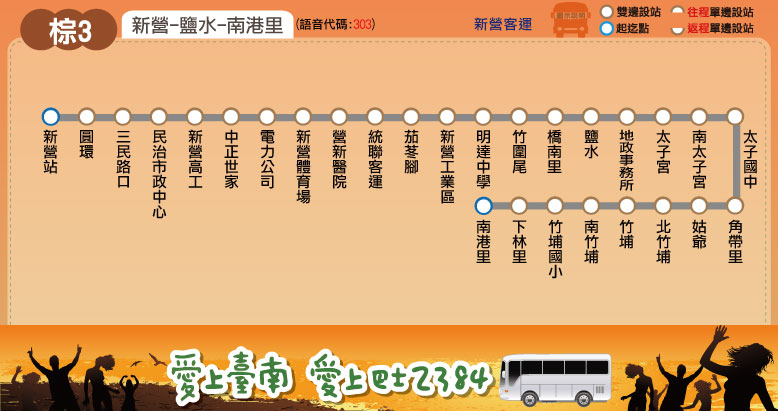
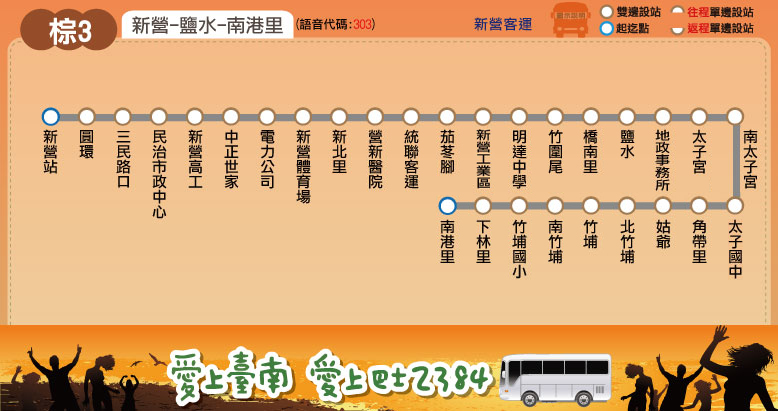
finished the time schedule of brown 3 & 3-1

Changed region(s): [[0.401, 0.292, 0.9563, 0.6715], [0.9563, 0.3212, 0.9871, 0.4672]]

diff --git a/route/fare_and_time/brown_3.js b/route/fare_and_time/brown_3.js
@@ -1,42 +1,30 @@
-brown_3_interval_name = ["新營","茄苳腳","鹽水","後寮","番子寮","孫厝寮","羊稠厝","頂洲","北紅茄萣","新渡子頭","渡子頭","南鯤鯓","雙春"];
+brown_3_interval_name = ["新營","茄苳腳","鹽水","太子宮","角帶里","姑爺","竹埔","南港里"];
 brown_3_interval_stop = [
-["新營站","圓環","三民路口","齊普","新營漁市場","太子路口","統聯客運"], // 新營
+["新營站","圓環","三民路口","民治市政中心","新營高工","中正世家","電力公司","新營體育場","新北里","營新醫院","統聯客運"], // 新營
 ["茄苳腳","新營工業區","明達中學"], // 茄苳腳
-["竹圍尾","橋南里","鹽水","地政事務所","月津國小"], // 鹽水
-["後寮"], // 後寮
-["番子寮"], // 番子寮
-["孫厝寮","南孫厝寮"], // 孫厝寮
-["羊稠厝","頑皮世界"], // 羊稠厝
-["頂洲"], // 頂洲
-["北紅茄萣"], // 北紅茄萣
-["新渡子頭"], // 新渡子頭
-["渡子頭"], // 渡子頭
-["南鯤鯓","橋北"], // 南鯤鯓
-["永春","雙春"] // 雙春
+["竹圍尾","橋南里","鹽水","地政事務所"], // 鹽水
+["太子宮","南太子宮","太子國中"], // 太子宮
+["角帶里"], // 角帶里
+["姑爺"], // 姑爺
+["北竹埔","竹埔","南竹埔","竹埔國小"], // 竹埔
+["下林里","南港里"] // 南港里
 ];
-brown_3_stop_time_consume = [0,1,3,5,7,8,10,11,13,15,16,18,20,22,24,26,27,29,31,32,33,34,35,36,37,36,37,38,40,43,45,46,47,49,50,
-52,53,54,55,56,57,58,60]; // fake time
-brown_3_fare = [ // fake fare
+brown_3_stop_time_consume = [0,2,4,6,8,9,9,10,11,11,12,15,16,17,19,20,22,23,28,30,31,32,34,36,37,37,38,39,40];
+brown_3_fare = [
 [26],
 [26,26],
-[26,26,26],
-[33,26,26,26],
-[39,26,26,26,26],
-[46,31,26,26,26,26],
-[50,34,26,26,26,26,26],
-[52,36,27,26,26,26,26,26],
-[55,39,30,26,26,26,26,26,26],
-[59,43,34,26,26,26,26,26,26,26],
-[73,57,48,41,34,27,26,26,26,26,26],
-[82,67,57,50,43,36,33,30,27,26,26,26],
-[89,73,64,57,50,43,39,37,34,31,26,26,26],
-[100,84,75,68,61,54,50,48,45,42,27,26,26,26]
+[34,26,26],
+[48,26,26,26],
+[54,29,26,26,26],
+[57,32,26,26,26,26],
+[63,38,29,26,26,26,26],
+[69,44,34,26,26,26,26,26]
 ];
 // format = [time at the start stop] or
 // [time, other] or
 // [time, start_stop, end_stop, other]
-brown_3_main_stop_name = ["新營","統聯<br />客運","鹽水","頑皮世界","南鯤鯓","雙春"];
-brown_3_main_stop_time_consume = [0, 8, 18, 35, 51, 55];
-brown_3_important_stop = [0, 2, 4, 5]; // 新營, 鹽水, 南鯤鯓, 雙春
-brown_3_time_go = [["9:45"],["13:25"],["17:40"]];
-brown_3_time_return = [["6:00"],["10:40"],["14:20"]];
+brown_3_main_stop_name = ["新營","統聯<br />客運","鹽水","太子宮","竹埔","南港里"];
+brown_3_main_stop_time_consume = [0, 12, 22, 29, 37, 40];
+brown_3_important_stop = [0, 2, 5]; // 新營, 鹽水, 南港里
+brown_3_time_go = [["06:00"],["12:15"],["17:15"]];
+brown_3_time_return = [["06:45"],["13:00"],["18:00"]];

diff --git a/brown/brown_3_1.html b/brown/brown_3_1.html
@@ -52,7 +52,7 @@ select.get_fare option.option5
 			<h2>大台南公車 ─ 棕3-1 路線圖</h2>
 			<span class="byline">Tainan Bus Brown 3-1, Route Map</span>
 		</div>
-		<img src="../route/brown/br3.jpg">
+		<img src="../route/brown/br3_1.jpg">
 		<p></p>
 		<!--<iframe src="https://mapsengine.google.com/map/embed?mid=zT0XIOZRtlhg.kjdt4phnE_dw" width="800" height="500"></iframe>-->
 	</div>
@@ -67,7 +67,7 @@ select.get_fare option.option5
 			<table border="0">
 				<tr>
 					<td>起訖點</td>
-					<td>新營 － 鹽水 － 南鯤鯓 － 雙春</td>
+					<td>新營 － 鹽水 － 鐵線里</td>
 				</tr>
 				<tr>
 					<td>營運公司</td>
@@ -75,7 +75,12 @@ select.get_fare option.option5
 				</tr>
 				<tr>
 					<td>首／末班車發車時刻</td>
-					<td>往 雙春：09:45／17:40<br />往 新營：06:00／14:20</td>
+					<td><script language="javascript">
+					document.write('往 鐵線里：'+brown_3_1_time_go[0]+'／'+brown_3_1_time_go[brown_3_1_time_go.length-1]);
+					document.write('<br />');
+					document.write('往 新　營：'+brown_3_1_time_return[0]+'／'+brown_3_1_time_return[brown_3_1_time_return.length-1]);
+					</script>
+					</td>
 				</tr>
 				<tr>
 					<td>班距</td>
@@ -133,10 +138,10 @@ select.get_fare option.option5
 		<span class="byline">Bus schedule</span> </div>
 	<div class="content">
 		<script language="javascript">
-			document.write('<h2><font color="brown">新營-&gt;雙春</font></h2>');
+			document.write('<h2><font color="brown">新營-&gt;鐵線里</font></h2>');
 			create_time_schedule(brown_3_1_main_stop_name, brown_3_1_main_stop_time_consume, brown_3_1_important_stop, brown_3_1_time_go, false);
 			document.write('<p>　</p>');
-			document.write('<h2><font color="brown">雙春-&gt;新營</font></h2>');
+			document.write('<h2><font color="brown">鐵線里-&gt;新營</font></h2>');
 			create_time_schedule(brown_3_1_main_stop_name, brown_3_1_main_stop_time_consume, brown_3_1_important_stop, brown_3_1_time_return, true);
 			document.write(TimeScheduleMSG);
 		</script>
@@ -158,7 +163,7 @@ select.get_fare option.option5
 				</tr>
 				<tr>
 					<td style="text-align: center"><img src="../route/transfer/brown_transfer_logo.png"></td>
-					<td id="brown"><a href="../brown/brown.html" target="_blank">棕幹線</a>、<a href="../brown/brown_1.html" target="_blank">棕1</a>、<a href="../brown/brown_2.html" target="_blank">棕2</a>、<a href="../brown/brown_3.html" target="_blank">棕3</a></td>
+					<td id="brown"><a href="../brown/brown.html" target="_blank">棕幹線</a>、<a href="../brown/brown_3_1.html" target="_blank">棕1</a>、<a href="../brown/brown_2.html" target="_blank">棕2</a>、<a href="../brown/brown_3.html" target="_blank">棕3</a>、<a href="../brown/brown_3_1.html" target="_blank">棕3-1</a></td>
 				</tr>
 				<tr>
 					<td style="text-align: center"><img src="../route/transfer/yellow_transfer_logo.png"></td>

diff --git a/brown/brown_3.html b/brown/brown_3.html
@@ -67,7 +67,7 @@ select.get_fare option.option5
 			<table border="0">
 				<tr>
 					<td>起訖點</td>
-					<td>新營 － 鹽水 － 南鯤鯓 － 雙春</td>
+					<td>新營 － 鹽水 － 南港里</td>
 				</tr>
 				<tr>
 					<td>營運公司</td>
@@ -75,7 +75,13 @@ select.get_fare option.option5
 				</tr>
 				<tr>
 					<td>首／末班車發車時刻</td>
-					<td>往 雙春：09:45／17:40<br />往 新營：06:00／14:20</td>
+					<td>
+					<script language="javascript">
+					document.write('往 南港里：'+brown_3_time_go[0]+'／'+brown_3_time_go[brown_3_time_go.length-1]);
+					document.write('<br />');
+					document.write('往 新　營：'+brown_3_time_return[0]+'／'+brown_3_time_return[brown_3_time_return.length-1]);
+					</script>
+					</td>
 				</tr>
 				<tr>
 					<td>班距</td>
@@ -87,7 +93,7 @@ select.get_fare option.option5
 				</tr>
 			</table>
 			<p>　</p>
-			<a href="http://2384.tainan.gov.tw:8080/AGPSRemoteQuery3/ajaxBus.jsp?pathId=1301&locale=zh_TW" class="button">公車動態資訊</a> </div>
+			<a href="http://2384.tainan.gov.tw:8080/AGPSRemoteQuery3/ajaxBus.jsp?pathId=1303&locale=zh_TW" class="button">公車動態資訊</a> </div>
 	</div>
 </div>
 <div id="wrapper3">
@@ -133,10 +139,10 @@ select.get_fare option.option5
 		<span class="byline">Bus schedule</span> </div>
 	<div class="content">
 		<script language="javascript">
-			document.write('<h2><font color="brown">新營-&gt;雙春</font></h2>');
+			document.write('<h2><font color="brown">新營-&gt;南港里</font></h2>');
 			create_time_schedule(brown_3_main_stop_name, brown_3_main_stop_time_consume, brown_3_important_stop, brown_3_time_go, false);
 			document.write('<p>　</p>');
-			document.write('<h2><font color="brown">雙春-&gt;新營</font></h2>');
+			document.write('<h2><font color="brown">南港里-&gt;新營</font></h2>');
 			create_time_schedule(brown_3_main_stop_name, brown_3_main_stop_time_consume, brown_3_important_stop, brown_3_time_return, true);
 			document.write(TimeScheduleMSG);
 		</script>
@@ -158,7 +164,7 @@ select.get_fare option.option5
 				</tr>
 				<tr>
 					<td style="text-align: center"><img src="../route/transfer/brown_transfer_logo.png"></td>
-					<td id="brown"><a href="../brown/brown.html" target="_blank">棕幹線</a>、<a href="../brown/brown_1.html" target="_blank">棕1</a>、<a href="../brown/brown_2.html" target="_blank">棕2</a>、<a href="../brown/brown_3.html" target="_blank">棕3</a></td>
+					<td id="brown"><a href="../brown/brown.html" target="_blank">棕幹線</a>、<a href="../brown/brown_1.html" target="_blank">棕1</a>、<a href="../brown/brown_2.html" target="_blank">棕2</a>、<a href="../brown/brown_3.html" target="_blank">棕3</a>、<a href="../brown/brown_3_1.html" target="_blank">棕3-1</a></td>
 				</tr>
 				<tr>
 					<td style="text-align: center"><img src="../route/transfer/yellow_transfer_logo.png"></td>

diff --git a/route/fare_and_time/brown_3_1.js b/route/fare_and_time/brown_3_1.js
@@ -1,42 +1,26 @@
-brown_3_1_interval_name = ["新營","茄苳腳","鹽水","後寮","番子寮","孫厝寮","羊稠厝","頂洲","北紅茄萣","新渡子頭","渡子頭","南鯤鯓","雙春"];
+brown_3_1_interval_name = ["新營","茄苳腳","鹽水","太子宮","五興里","鐵線里"];
 brown_3_1_interval_stop = [
-["新營站","圓環","三民路口","齊普","新營漁市場","太子路口","統聯客運"], // 新營
+["新營站","圓環","三民路口","民治市政中心","新營高工","中正世家","電力公司","新營體育場","新北里","營新醫院","統聯客運"], // 新營
 ["茄苳腳","新營工業區","明達中學"], // 茄苳腳
-["竹圍尾","橋南里","鹽水","地政事務所","月津國小"], // 鹽水
-["後寮"], // 後寮
-["番子寮"], // 番子寮
-["孫厝寮","南孫厝寮"], // 孫厝寮
-["羊稠厝","頑皮世界"], // 羊稠厝
-["頂洲"], // 頂洲
-["北紅茄萣"], // 北紅茄萣
-["新渡子頭"], // 新渡子頭
-["渡子頭"], // 渡子頭
-["南鯤鯓","橋北"], // 南鯤鯓
-["永春","雙春"] // 雙春
+["竹圍尾","橋南里","鹽水","地政事務所"], // 鹽水
+["太子宮","太北里","太南里"], // 太子宮
+["五興里"], // 五興里
+["鐵線里"] // 鐵線里
 ];
-brown_3_1_stop_time_consume = [0,1,3,5,7,8,10,11,13,15,16,18,20,22,24,26,27,29,31,32,33,34,35,36,37,36,37,38,40,43,45,46,47,49,50,
-52,53,54,55,56,57,58,60]; // fake time
-brown_3_1_fare = [ // fake fare
+brown_3_1_stop_time_consume = [0,2,4,6,8,9,9,10,11,11,12,15,16,17,19,20,22,23,28,30,31,32,34,36,37,37,38,39,40];
+brown_3_1_fare = [
 [26],
 [26,26],
-[26,26,26],
-[33,26,26,26],
-[39,26,26,26,26],
-[46,31,26,26,26,26],
-[50,34,26,26,26,26,26],
-[52,36,27,26,26,26,26,26],
-[55,39,30,26,26,26,26,26,26],
-[59,43,34,26,26,26,26,26,26,26],
-[73,57,48,41,34,27,26,26,26,26,26],
-[82,67,57,50,43,36,33,30,27,26,26,26],
-[89,73,64,57,50,43,39,37,34,31,26,26,26],
-[100,84,75,68,61,54,50,48,45,42,27,26,26,26]
+[34,26,26],
+[48,26,26,26],
+[56,31,26,26,26],
+[60,34,26,26,26,26]
 ];
 // format = [time at the start stop] or
 // [time, other] or
 // [time, start_stop, end_stop, other]
-brown_3_1_main_stop_name = ["新營","統聯<br />客運","鹽水","頑皮世界","南鯤鯓","雙春"];
-brown_3_1_main_stop_time_consume = [0, 8, 18, 35, 51, 55];
-brown_3_1_important_stop = [0, 2, 4, 5]; // 新營, 鹽水, 南鯤鯓, 雙春
-brown_3_1_time_go = [["9:45"],["13:25"],["17:40"]];
-brown_3_1_time_return = [["6:00"],["10:40"],["14:20"]];
+brown_3_1_main_stop_name = ["新營","統聯<br />客運","鹽水","太子宮","五興里","鐵線里"];
+brown_3_1_main_stop_time_consume = [0, 12, 22, 29, 33, 35];
+brown_3_1_important_stop = [0, 2, 5]; // 新營, 鹽水, 鐵線里
+brown_3_1_time_go = [["08:15"],["11:15"],["15:15"]];
+brown_3_1_time_return = [["08:55"],["11:55"],["15:55"]];

diff --git a/route/fare_and_time/brown.js b/route/fare_and_time/brown.js
@@ -15,7 +15,7 @@ brown_interval_stop = [
 ["佳里興北","佳里興","奇美佳里分院","北門農工","糖廠前"], // 佳里興
 ["中山公園","佳里站"] // 佳里
 ];
-brown_stop_time_consume = [0,1,3,5,7,8,10,11,13,15,16,18,20,22,24,26,27,29,31,32,33,34,35,36,37,36,37,38,40,43,45,46,47,49,50,
+brown_stop_time_consume = [0,1,3,5,6,7,8,10,11,13,15,16,18,20,22,24,26,27,29,31,32,33,34,35,36,37,36,37,38,40,43,45,46,47,49,50,
 52,53,54,55,56,57,58,60];
 brown_fare = [
 [26],
@@ -39,11 +39,11 @@ brown_fare = [
 brown_main_stop_name = ["新營","民治<br />市政中心","統聯<br />客運","鹽水","歡雅","大埔","麻油寮","學甲","奇美<br />佳里分院","佳里"];
 brown_main_stop_time_consume = [0, 3, 8, 18, 26, 33, 33, 43, 53, 60];
 brown_important_stop = [0, 3, 7, 9]; // 新營, 鹽水, 學甲, 佳里
-brown_time_go = [["6:05",[6]],["6:35",[5]],["7:05",[6]],["7:35",[6]],["8:05",[5]],["8:35",[6]],["9:05",[6]],["9:35",[6]],
+brown_time_go = [["06:05",[6]],["06:35",[5]],["07:05",[6]],["07:35",[6]],["08:05",[5]],["08:35",[6]],["09:05",[6]],["09:35",[6]],
 ["10:05",[5]],["10:35",[6]],["11:05",[6]],["11:35",[6]],["12:05",[6]],["12:35",[5]],["13:05",[6]],["14:05",[6]],["14:35",[5]],
 ["15:05",[6]],["15:35",[6]],["16:05",[6]],["16:35",[6]],["17:05",[5]],["17:35",[6]],["18:05",[6]],["19:05",[6]],["20:05",[6]]
 ];
-brown_time_return = [["6:05",[6]],["6:35",[5]],["7:05",[6]],["7:35",[6]],["8:05",[5]],["8:35",[6]],["9:05",[6]],["9:35",[6]],
+brown_time_return = [["06:05",[6]],["06:35",[5]],["07:05",[6]],["07:35",[6]],["08:05",[5]],["08:35",[6]],["09:05",[6]],["09:35",[6]],
 ["10:05",[5]],["10:35",[6]],["11:05",[6]],["11:35",[5]],["12:05",[6]],["12:35",[6]],["13:05",[6]],["14:05",[5]],["14:35",[6]],
 ["15:05",[6]],["15:35",[6]],["16:05",[5]],["16:35",[6]],["17:05",[6]],["17:35",[6]],["18:05",[5]],["19:05",[6]],["20:05",[6]]
 ];

diff --git a/brown/brown.html b/brown/brown.html
@@ -75,7 +75,13 @@ select.get_fare option.option5
 				</tr>
 				<tr>
 					<td>首／末班車發車時刻</td>
-					<td>往 佳里：06:05／20:05<br />往 新營：06:05／20:05</td>
+					<td>
+					<script language="javascript">
+					document.write('往 佳里：'+brown_time_go[0][0]+'／'+brown_time_go[brown_time_go.length-1][0]);
+					document.write('<br />');
+					document.write('往 新營：'+brown_time_return[0][0]+'／'+brown_time_return[brown_time_return.length-1][0]);
+					</script>
+					</td>
 				</tr>
 				<tr>
 					<td>班距</td>
@@ -158,7 +164,7 @@ select.get_fare option.option5
 				</tr>
 				<tr>
 					<td style="text-align: center"><img src="../route/transfer/brown_transfer_logo.png"></td>
-					<td id="brown"><a href="../brown/brown.html" target="_blank">棕幹線</a>、<a href="../brown/brown_1.html" target="_blank">棕1</a>、<a href="../brown/brown_2.html" target="_blank">棕2</a>、<a href="../brown/brown_3.html" target="_blank">棕3</a></td>
+					<td id="brown"><a href="../brown/brown.html" target="_blank">棕幹線</a>、<a href="../brown/brown_1.html" target="_blank">棕1</a>、<a href="../brown/brown_2.html" target="_blank">棕2</a>、<a href="../brown/brown_3.html" target="_blank">棕3</a>、<a href="../brown/brown_3_1.html" target="_blank">棕3-1</a></td>
 				</tr>
 				<tr>
 					<td style="text-align: center"><img src="../route/transfer/yellow_transfer_logo.png"></td>

diff --git a/brown/brown_1.html b/brown/brown_1.html
@@ -164,7 +164,7 @@ select.get_fare option.option5
 				</tr>
 				<tr>
 					<td style="text-align: center"><img src="../route/transfer/brown_transfer_logo.png"></td>
-					<td id="brown"><a href="../brown/brown.html" target="_blank">棕幹線</a>、<a href="../brown/brown_1.html" target="_blank">棕1</a>、<a href="../brown/brown_2.html" target="_blank">棕2</a>、<a href="../brown/brown_3.html" target="_blank">棕3</a></td>
+					<td id="brown"><a href="../brown/brown.html" target="_blank">棕幹線</a>、<a href="../brown/brown_1.html" target="_blank">棕1</a>、<a href="../brown/brown_2.html" target="_blank">棕2</a>、<a href="../brown/brown_3.html" target="_blank">棕3</a>、<a href="../brown/brown_3_1.html" target="_blank">棕3-1</a></td>
 				</tr>
 				<tr>
 					<td style="text-align: center"><img src="../route/transfer/yellow_transfer_logo.png"></td>

diff --git a/brown/brown_2.html b/brown/brown_2.html
@@ -164,7 +164,7 @@ select.get_fare option.option5
 				</tr>
 				<tr>
 					<td style="text-align: center"><img src="../route/transfer/brown_transfer_logo.png"></td>
-					<td id="brown"><a href="../brown/brown.html" target="_blank">棕幹線</a>、<a href="../brown/brown_1.html" target="_blank">棕1</a>、<a href="../brown/brown_2.html" target="_blank">棕2</a>、<a href="../brown/brown_3.html" target="_blank">棕3</a></td>
+					<td id="brown"><a href="../brown/brown.html" target="_blank">棕幹線</a>、<a href="../brown/brown_1.html" target="_blank">棕1</a>、<a href="../brown/brown_2.html" target="_blank">棕2</a>、<a href="../brown/brown_3.html" target="_blank">棕3</a>、<a href="../brown/brown_3_1.html" target="_blank">棕3-1</a></td>
 				</tr>
 				<tr>
 					<td style="text-align: center"><img src="../route/transfer/yellow_transfer_logo.png"></td>

diff --git a/route/fare_and_time/brown_1.js b/route/fare_and_time/brown_1.js
@@ -14,7 +14,7 @@ brown_1_interval_stop = [
 ["南鯤鯓","橋北"], // 南鯤鯓
 ["永春","雙春"] // 雙春
 ];
-brown_1_stop_time_consume = [0,2,4,5,6,7,8,11,12,13,15,16,18,18,20,23,25,27,27,28,30,32,33,35,36,41,43,44,45];
+brown_1_stop_time_consume = [0,2,4,5,6,7,8,11,12,13,15,16,18,19,20,23,25,27,27,28,30,32,33,35,36,41,43,44,45];
 brown_1_fare = [
 [26],
 [26,26],
